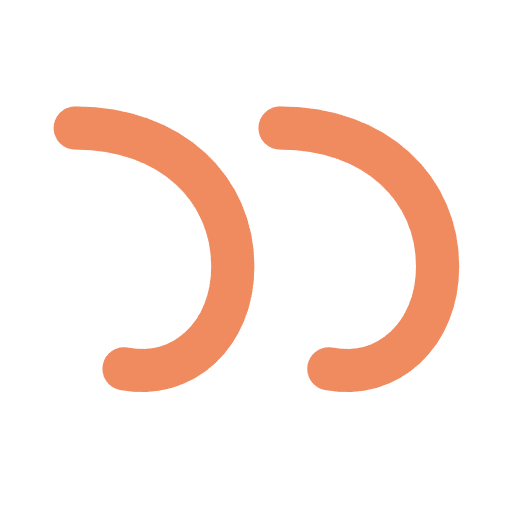
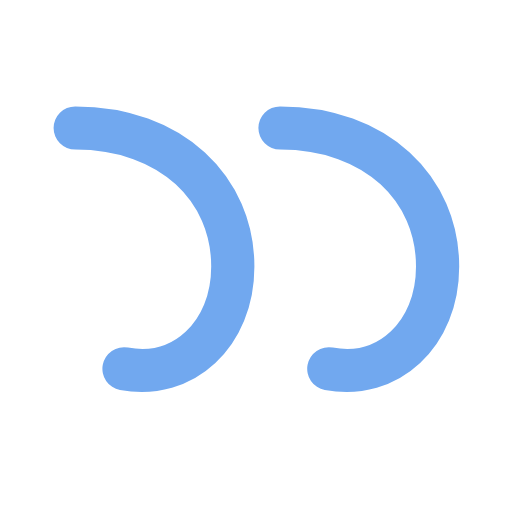
feat(site): the accent is blue
Measured the orange first so the swap would not change the design's balance
along with its hue. It sat at 5.46:1 on paper and 7.58:1 on dark, so the blue
was chosen to land on those same two numbers rather than picked by eye:
#1668c5 measures 5.45:1 and #71a8ef measures 7.62:1. White on the light accent
and ink on the dark one hold at 5.50 and 7.54, so buttons did not shift either.

A side effect worth having. The error red sat twelve degrees of hue from the
orange accent, which is close enough that a glance, or a colour-blind reader,
could take one for the other. It is now two hundred and nine degrees away.

The mark, both favicons, the social card and every file in the brand kit moved
with it. The two images with type baked into them were recoloured pixel by
pixel rather than re-rendered, because re-rendering here would have substituted
whatever serif this machine has for the Newsreader that was originally set. The
rest are pure vector and were rendered from the updated SVGs by the same engine
that draws them on the site, so the raster cannot disagree with the vector.

Also: a Snippet title with no link did not wrap, and it only showed as an
overflow in Chinese, where the title had no spaces to break at. The anchored
case had been fixed; the plain one had not.

Swept after: three languages, seven pages, nine widths, no page where
scrollWidth exceeds clientWidth.

Changed region(s): [[0.5, 0.1875, 0.9062, 0.7812], [0.0938, 0.1875, 0.5, 0.7812]]

diff --git a/site/src/styles/tokens.css b/site/src/styles/tokens.css
@@ -26,9 +26,9 @@
   --border-strong: #d2cdc2;
 
   /* The one accent. Elephants are grey; the ink they leave is not. */
-  --accent: #b5441f;
-  --accent-hover: #96371a;
-  --accent-soft: rgba(181, 68, 31, 0.1);
+  --accent: #1668c5;
+  --accent-hover: #1257a5;
+  --accent-soft: rgba(22, 104, 197, 0.1);
   --accent-fg: #ffffff;
 
   --ok: #2f7a41;
@@ -96,9 +96,9 @@
   --border: #2c2a26;
   --border-strong: #3d3a35;
 
-  --accent: #f08a5f;
-  --accent-hover: #f5a381;
-  --accent-soft: rgba(240, 138, 95, 0.13);
+  --accent: #71a8ef;
+  --accent-hover: #94bdf3;
+  --accent-soft: rgba(113, 168, 239, 0.13);
   --accent-fg: #16130f;
 
   --ok: #5fbd74;

diff --git a/site/index.html b/site/index.html
@@ -6,7 +6,7 @@
     <link rel="icon" type="image/svg+xml" href="/favicon.svg" />
     <link rel="icon" type="image/png" sizes="32x32" href="/favicon-32.png" />
     <link rel="apple-touch-icon" href="/apple-touch-icon.png" />
-    <link rel="mask-icon" href="/favicon.svg" color="#b5441f" />
+    <link rel="mask-icon" href="/favicon.svg" color="#1668c5" />
     <meta name="theme-color" content="#fffefb" media="(prefers-color-scheme: light)" />
     <meta name="theme-color" content="#131211" media="(prefers-color-scheme: dark)" />
 

diff --git a/site/src/styles/search.css b/site/src/styles/search.css
@@ -7,7 +7,10 @@
   align-items: center;
   gap: 0.5rem;
   flex: 0 1 auto;
-  width: 12.5rem;
+  /* Sized by its own label: the three languages need very different
+     widths, and one compromise number would truncate two of them. */
+  width: auto;
+  max-width: 15rem;
   min-width: 0;
   height: var(--control-h);
   padding: 0 0.5rem 0 0.65rem;

diff --git a/site/public/brand/README.md b/site/public/brand/README.md
@@ -6,8 +6,8 @@ sides is a quarter of the mark's height.
 
 | colour | on | hex |
 |---|---|---|
-| accent | paper | `#b5441f` |
-| accent | dark | `#f08a5f` |
+| accent | paper | `#1668c5` |
+| accent | dark | `#71a8ef` |
 | ink | paper | `#1b1917` |
 | paper | ink or accent | `#fffefb` |
 
